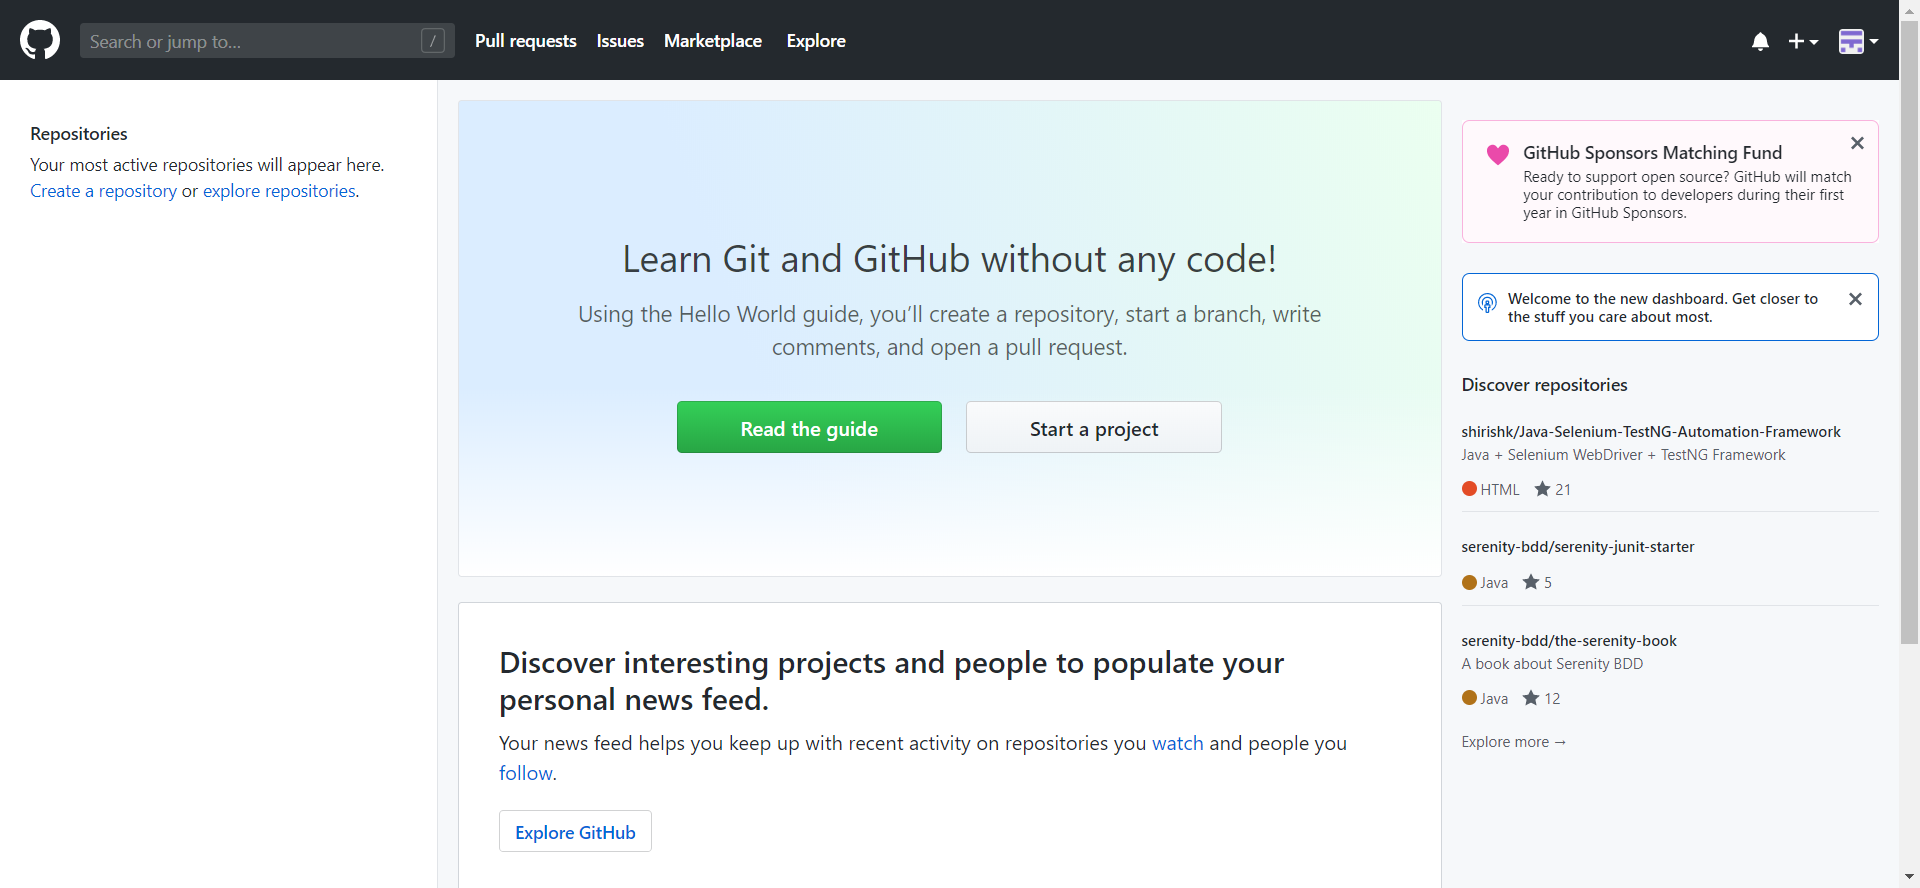
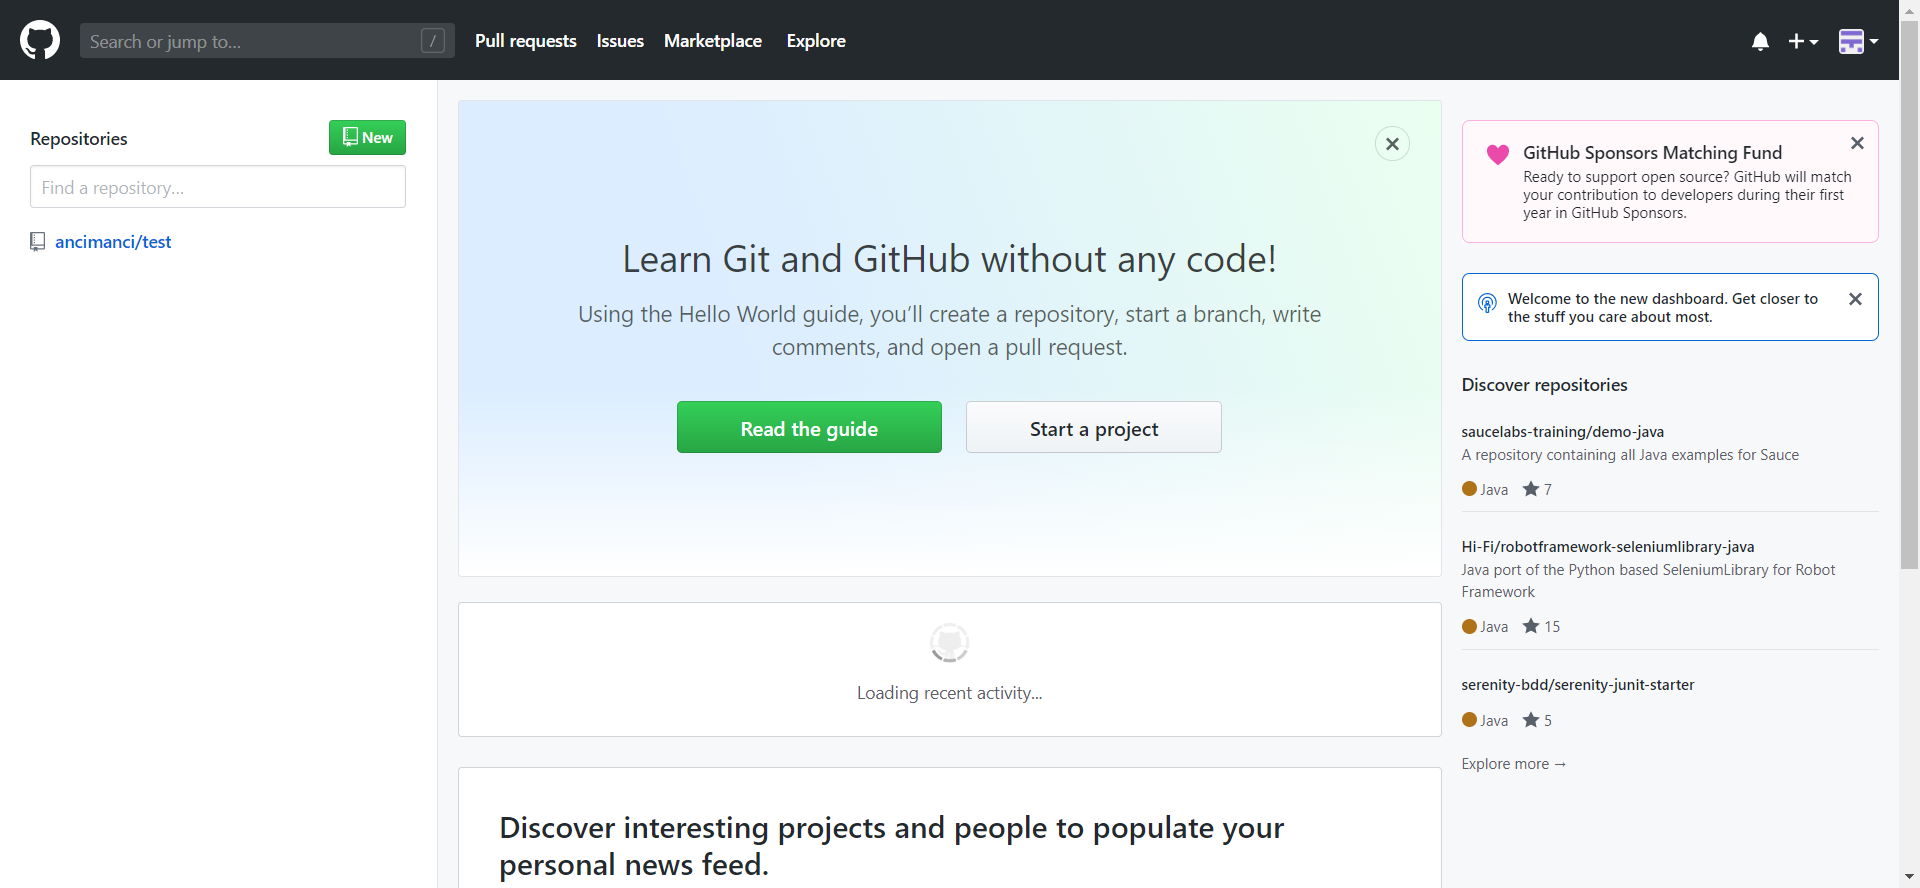
edit

diff --git a/src/test/java/tests/IncorrectCredentials.java b/src/test/java/tests/IncorrectCredentials.java
@@ -1,0 +1,65 @@
+package tests;
+
+import org.testng.annotations.AfterSuite;
+import pages.AccountPage;
+import java.io.IOException;
+import java.util.concurrent.TimeUnit;
+
+import org.testng.Assert;
+import org.testng.annotations.DataProvider;
+import org.testng.annotations.Test;
+
+
+import data.ExcilReader;
+import pages.HomePage;
+import pages.UserLoginPage;
+import pages.InvalidLogin;
+
+
+public class IncorrectCredentials extends TestBase {
+
+
+    HomePage HomeObject ;
+    UserLoginPage LoginObject;
+    InvalidLogin InvalidObject;
+
+
+    @DataProvider(name="logindata")
+    public Object [][] Logindata() throws IOException
+    {
+        // get data from exl reader
+
+        ExcilReader reader = new ExcilReader();
+        return reader.getExcelData(1, 2) ;
+
+    }
+
+
+    @Test(dataProvider="logindata")
+    public void User_Login(String mail, String Password) throws InterruptedException
+    {
+
+        HomeObject = new HomePage(driver);
+        driver.manage().timeouts().pageLoadTimeout(5, TimeUnit.SECONDS);
+        HomeObject.openLoginPage();
+        LoginObject = new UserLoginPage(driver);
+        LoginObject.Userlogin(mail, Password);
+
+        try {
+
+            driver.manage().timeouts().pageLoadTimeout(10, TimeUnit.SECONDS);
+            InvalidObject = new pages.InvalidLogin(driver);
+            Assert.assertTrue(InvalidObject.IncorrectElement.getText().contains("Incorrect"));
+
+
+        } catch (Exception e) {
+            System.out.println("Error happened" + e.getMessage());
+        }
+
+    }
+    @AfterSuite
+    public void stopDriver()
+    {
+        driver.quit();
+    }
+}

diff --git a/src/test/java/tests/UserCanLoginTest.java b/src/test/java/tests/UserCanLoginTest.java
@@ -1,10 +1,7 @@
 package tests;
 
-import org.openqa.selenium.By;
-import org.openqa.selenium.WebElement;
-import org.openqa.selenium.support.FindBy;
 import org.testng.annotations.AfterSuite;
-import util.WebDriverUtil;
+import pages.AccountPage;
 import java.io.IOException;
 import java.util.concurrent.TimeUnit;
 
@@ -23,9 +20,8 @@ public class UserCanLoginTest extends TestBase {
 
 	HomePage HomeObject ;
 	UserLoginPage LoginObject;
+	AccountPage AccountObject;
 
-
-public String Avatar = "//a[@class='avatar']";
 
 	@DataProvider(name="logindata")
 	public Object [][] Logindata() throws IOException
@@ -51,7 +47,8 @@ public String Avatar = "//a[@class='avatar']";
 		try {
 
 			driver.manage().timeouts().pageLoadTimeout(10, TimeUnit.SECONDS);
-			Assert.assertTrue(WebDriverUtil.isElementPresent(driver, By.xpath(Avatar)));
+			AccountObject = new AccountPage(driver);
+			Assert.assertTrue(AccountObject.NewButton.getText().contains("New"));
 
 
 		} catch (Exception e) {

diff --git a/src/test/java/tests/Loginwithoutcredentials.java b/src/test/java/tests/Loginwithoutcredentials.java
@@ -6,6 +6,7 @@ import org.testng.annotations.AfterMethod;
 import org.testng.annotations.Test;
 import pages.HomePage;
 import pages.UserLoginPage;
+import pages.InvalidLogin;
 import util.WebDriverUtil;
 import org.testng.Assert;
 
@@ -17,6 +18,7 @@ public class Loginwithoutcredentials  extends TestBase {
 
         HomePage HomeObject ;
         UserLoginPage LoginObject;
+        InvalidLogin InvalidObject;
 
 
 
@@ -31,7 +33,9 @@ public class Loginwithoutcredentials  extends TestBase {
             try {
 
                 driver.manage().timeouts().pageLoadTimeout(3, TimeUnit.SECONDS);
-           // Assert.assertTrue(WebDriverUtil.isElementDisplayed(driver, ));
+                InvalidObject = new InvalidLogin(driver);
+                Assert.assertTrue(InvalidObject.IncorrectElement.getText().contains("Incorrect"));
+
 
             }catch(Exception e)
             {

diff --git a/src/main/java/pages/AccountPage.java b/src/main/java/pages/AccountPage.java
@@ -1,0 +1,23 @@
+package pages;
+
+import org.openqa.selenium.JavascriptExecutor;
+import org.openqa.selenium.WebDriver;
+import org.openqa.selenium.WebElement;
+import org.openqa.selenium.interactions.Actions;
+import org.openqa.selenium.support.FindBy;
+import org.testng.Assert;
+import util.WebDriverUtil;
+
+public class AccountPage extends PageBase {
+
+    public AccountPage(WebDriver driver) {
+        super(driver);
+        js = (JavascriptExecutor) driver;
+        action = new Actions(driver);
+    }
+
+
+    @FindBy(xpath = "//div/h2/a")
+    public WebElement NewButton;
+
+    }

diff --git a/src/main/java/pages/InvalidLogin.java b/src/main/java/pages/InvalidLogin.java
@@ -1,0 +1,22 @@
+package pages;
+
+
+import org.openqa.selenium.JavascriptExecutor;
+import org.openqa.selenium.WebDriver;
+import org.openqa.selenium.WebElement;
+import org.openqa.selenium.interactions.Actions;
+import org.openqa.selenium.support.FindBy;
+
+public class InvalidLogin extends PageBase {
+
+    public InvalidLogin(WebDriver driver) {
+        super(driver);
+        js = (JavascriptExecutor) driver;
+        action = new Actions(driver);
+    }
+
+
+    @FindBy(xpath = "//*[@id='js-flash-container']")
+    public WebElement IncorrectElement;
+
+}

diff --git a/src/test/java/tests/TestBase.java b/src/test/java/tests/TestBase.java
@@ -3,11 +3,9 @@ package tests;
 import java.util.concurrent.TimeUnit;
 
 import org.openqa.selenium.WebDriver;
-import org.openqa.selenium.WebElement;
 import org.openqa.selenium.chrome.ChromeDriver;
 import org.openqa.selenium.firefox.FirefoxDriver;
 import org.testng.ITestResult;
-import org.testng.annotations.AfterClass;
 import org.testng.annotations.AfterMethod;
 import org.testng.annotations.AfterSuite;
 import org.testng.annotations.BeforeClass;

diff --git a/src/main/java/pages/PageBase.java b/src/main/java/pages/PageBase.java
@@ -2,6 +2,7 @@ package pages;
 
 import java.util.List;
 
+import org.openqa.selenium.By;
 import org.openqa.selenium.JavascriptExecutor;
 import org.openqa.selenium.WebDriver;
 import org.openqa.selenium.WebElement;
